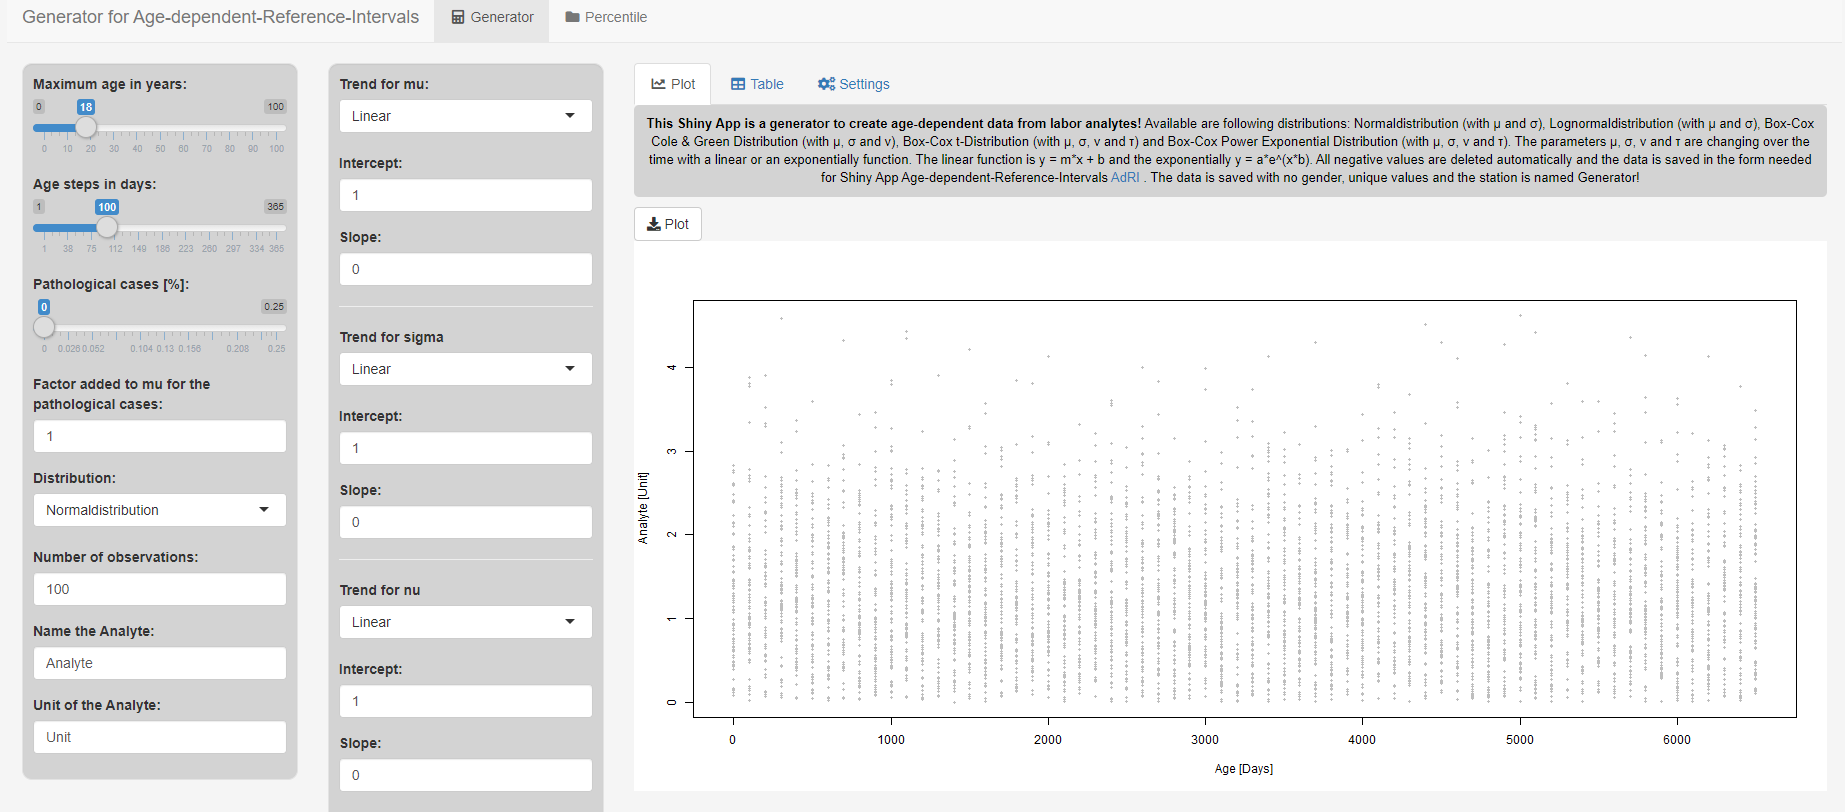
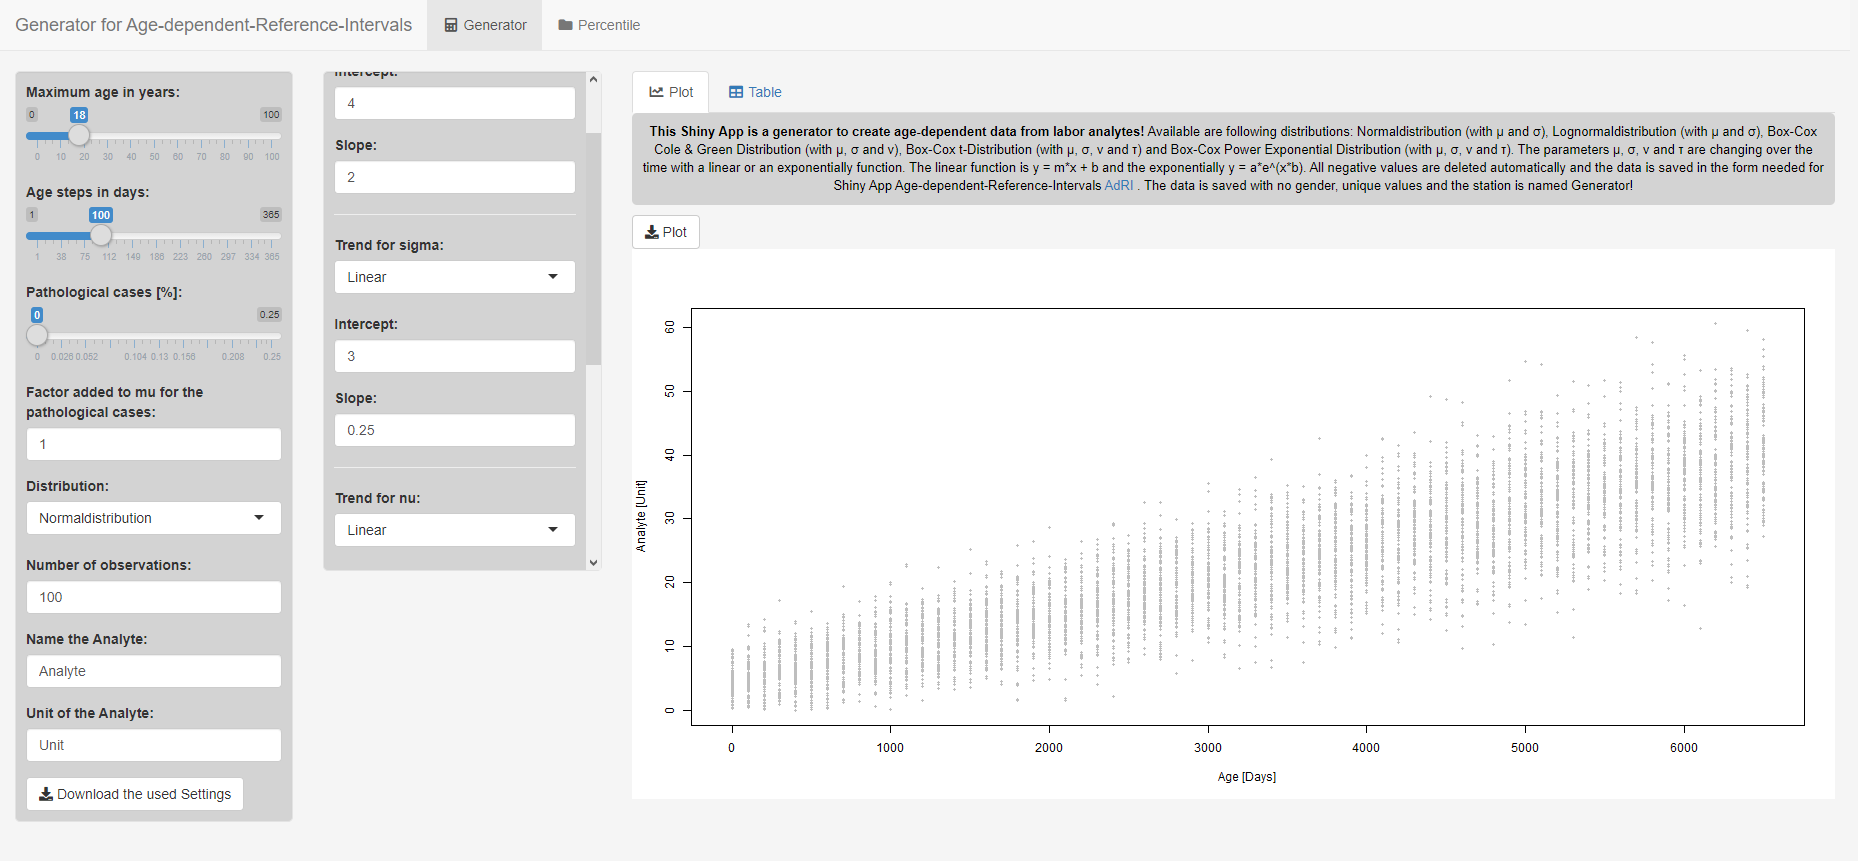
Make scrollable sidebar

Changed region(s): [[0.0, 0.0, 1.0, 1.0], [0.3707, 0.4926, 0.9577, 0.9544]]

diff --git a/www/style.css b/www/style.css
@@ -31,4 +31,4 @@ body {
   background: #F5F5F5;
 }
 
-#sidebar { max-height: 500px; overflow: auto; }
+#sidebar{max-height: 750px; overflow-y: auto; }
